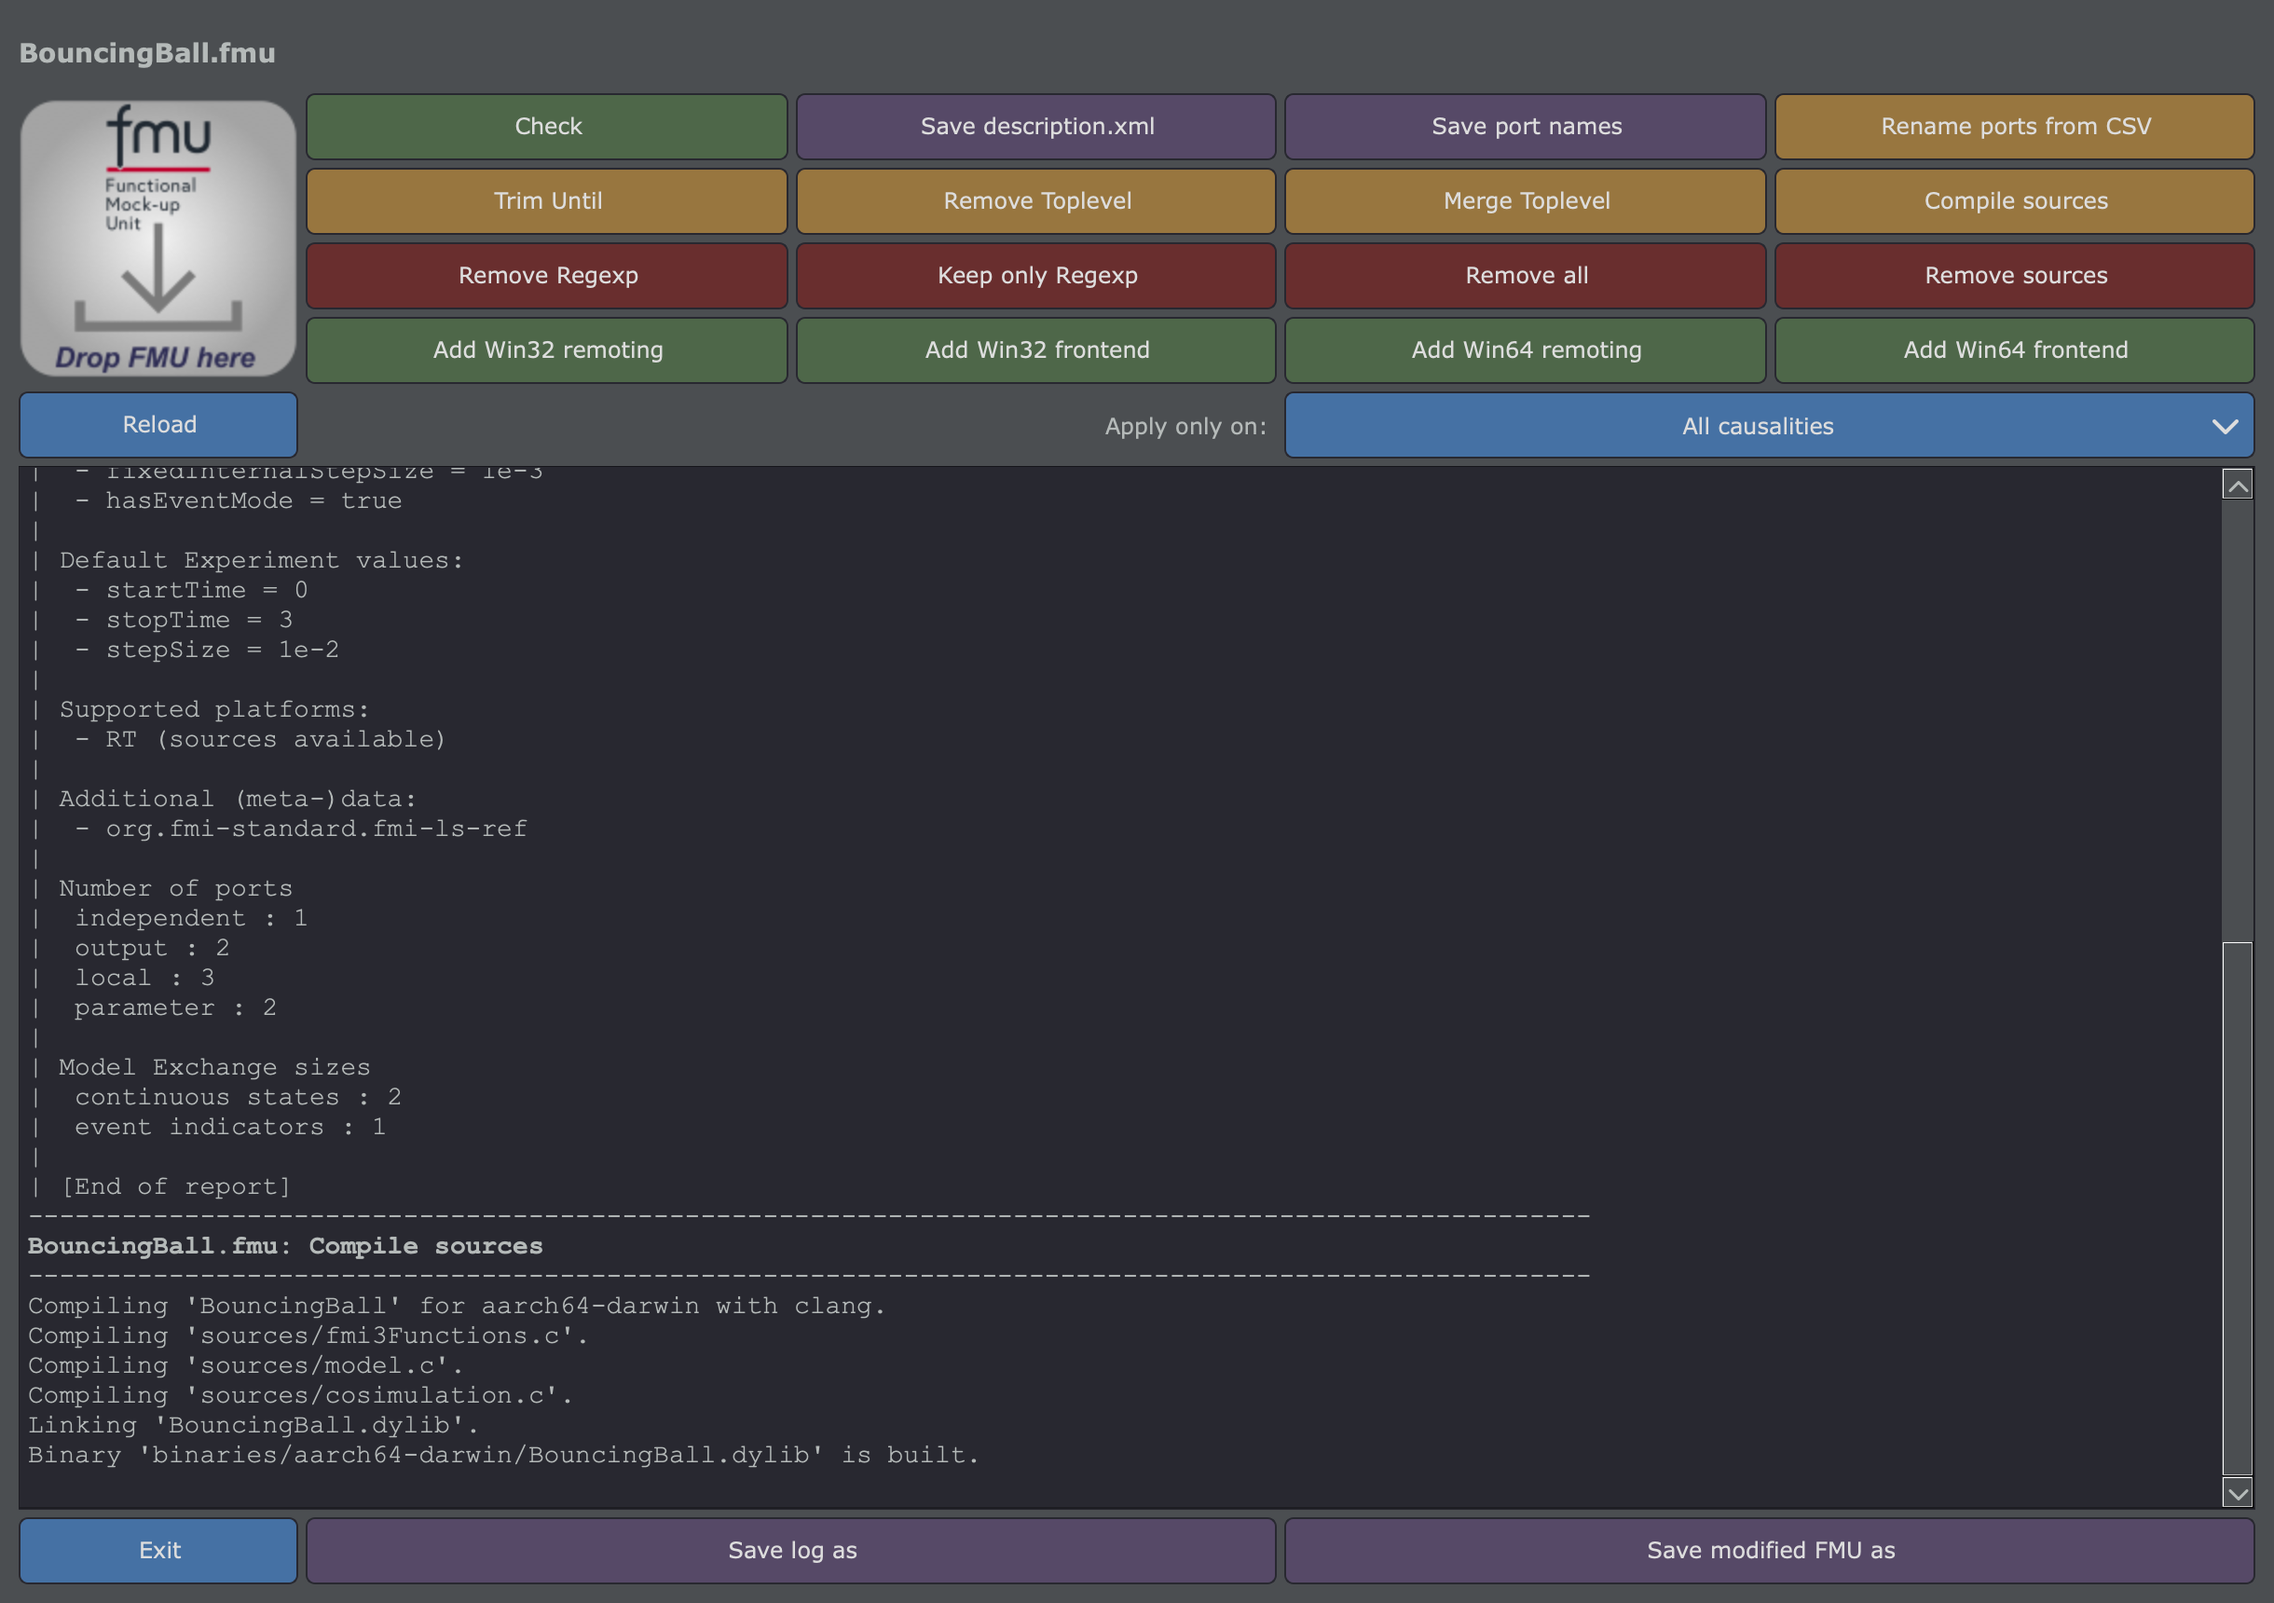
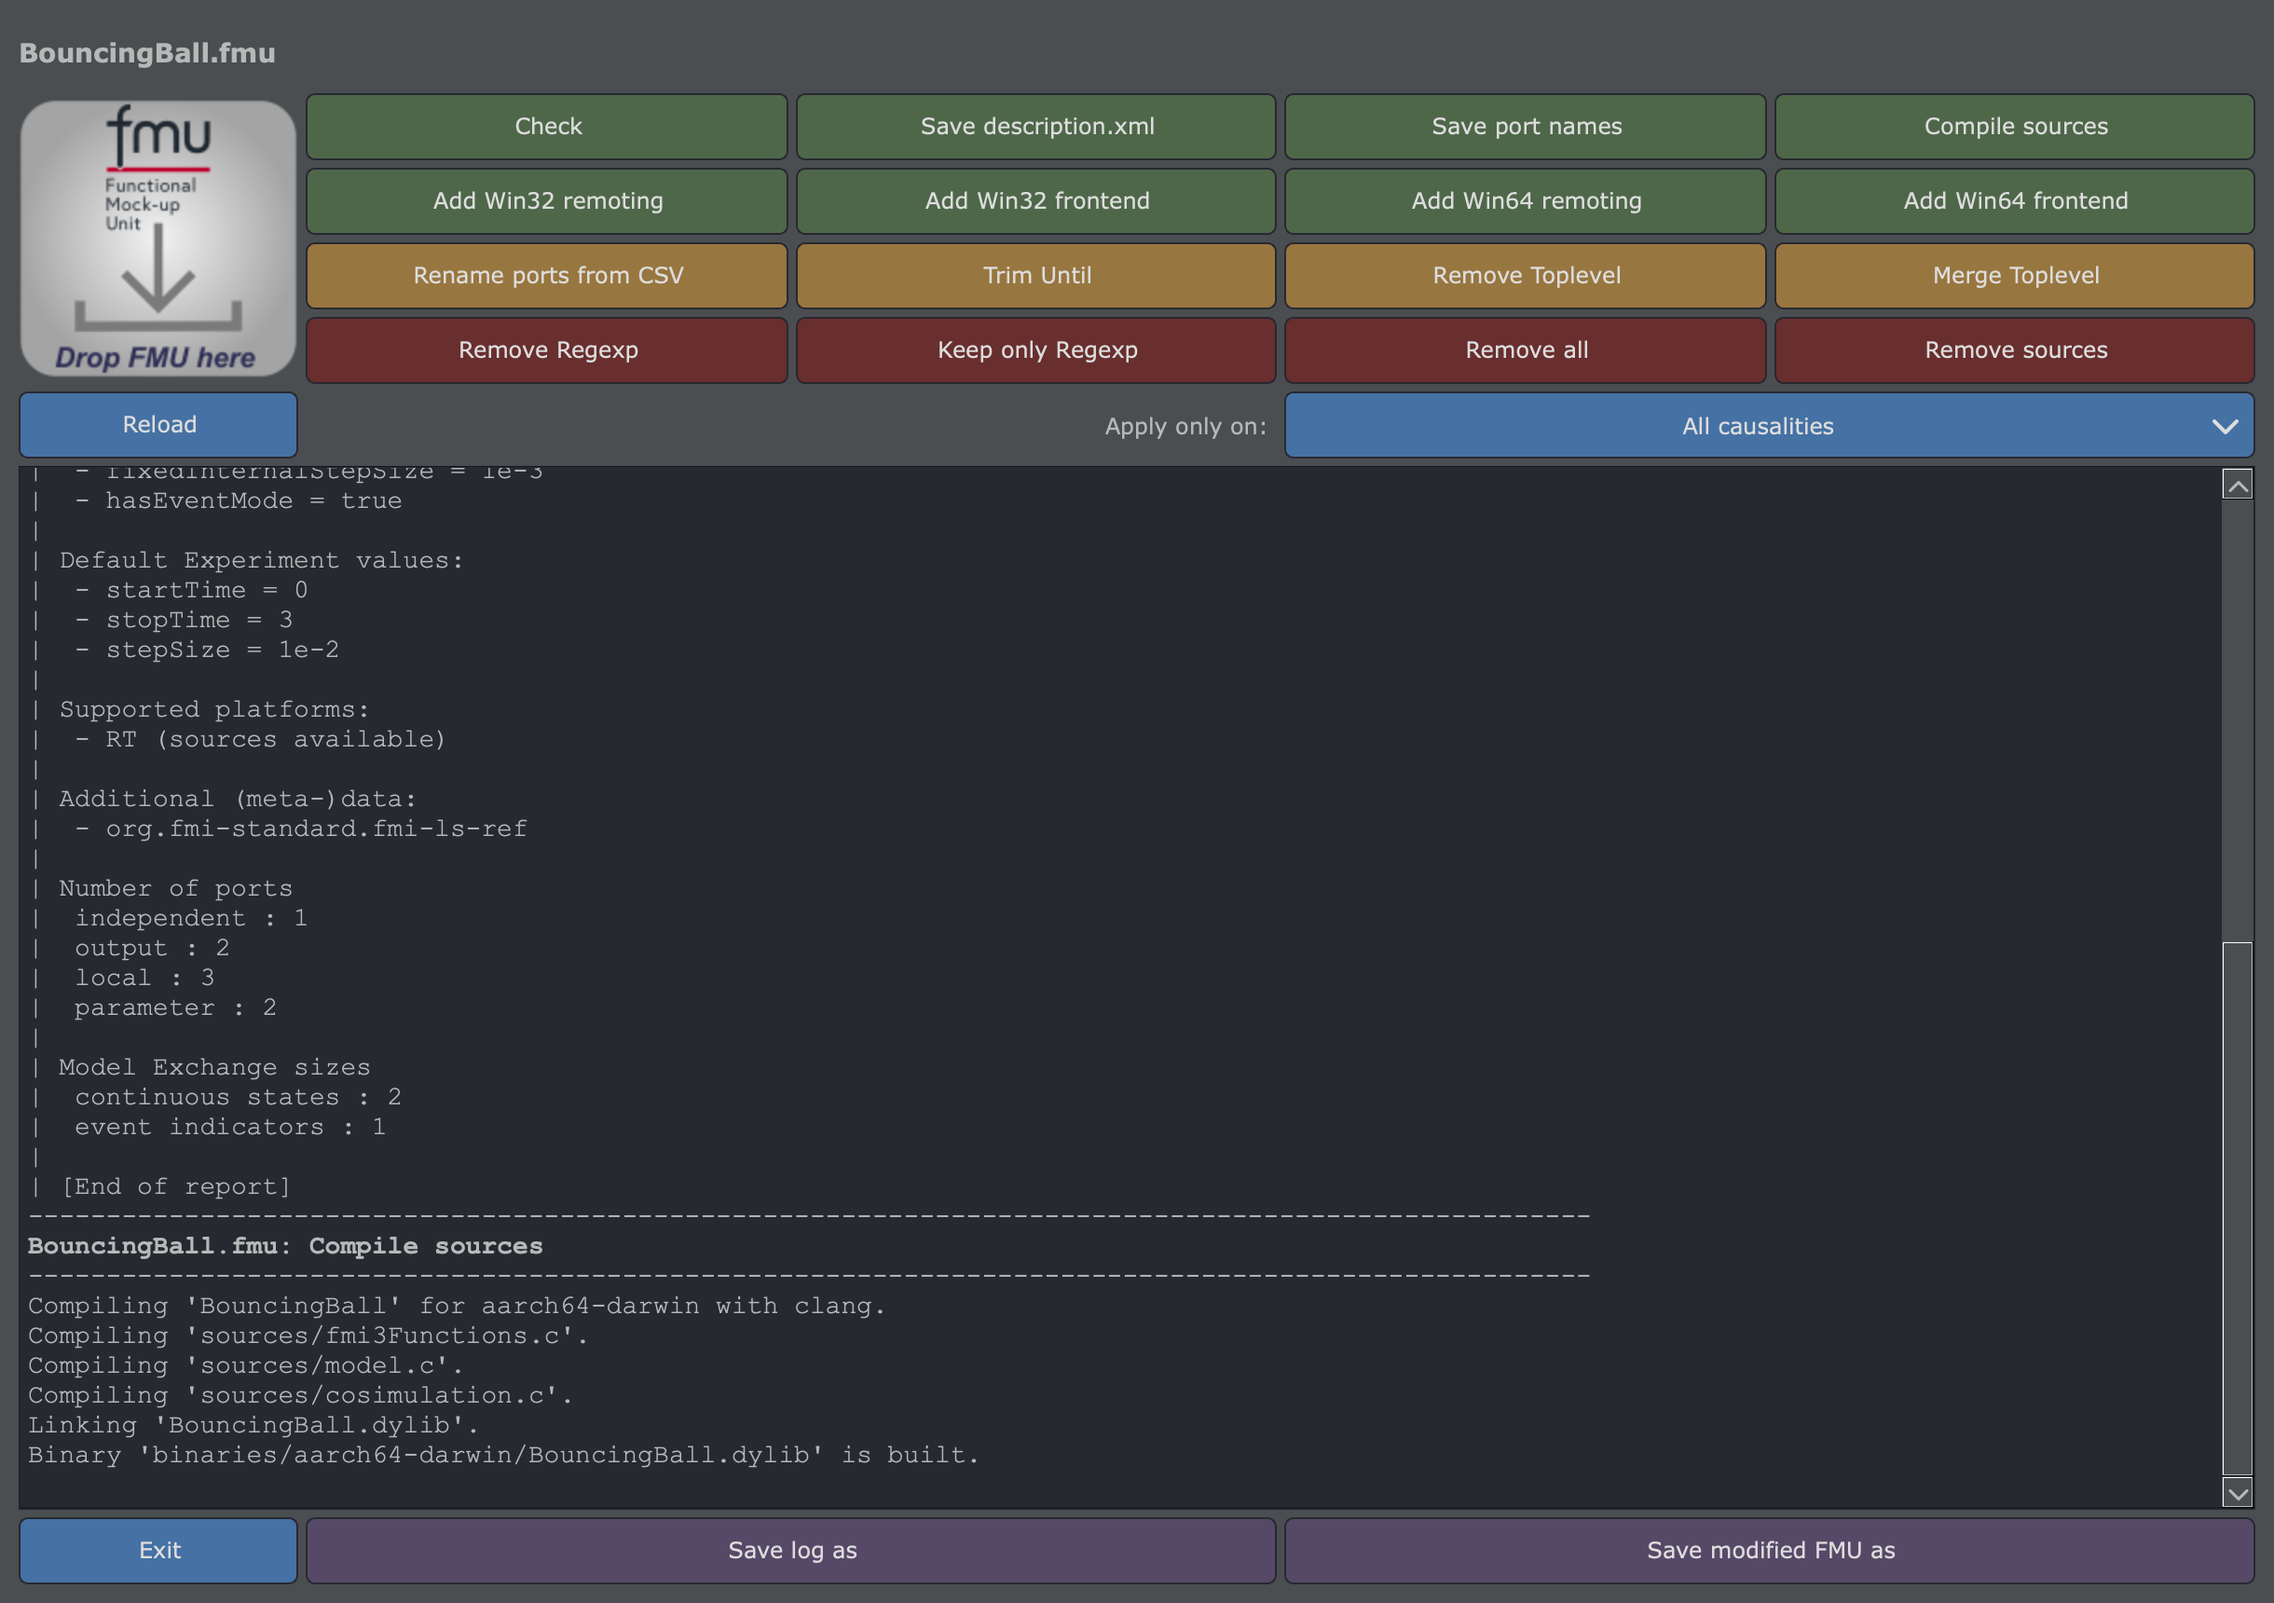
Change buttons colors

Changed region(s): [[0.1246, 0.0616, 0.9967, 0.2465]]

diff --git a/fmu_manipulation_toolbox/gui/fmutool/__main__.py b/fmu_manipulation_toolbox/gui/fmutool/__main__.py
@@ -86,25 +86,25 @@ Communicating with the FMU-developer and adapting the way the FMU is generated, 
 
         # Operations
         self.help = Help()
-        # Grid of WIDTH columns: analysis and saving, name changes, removals, remoting. "Compile sources" is above
-        # "Remove sources".
+        # Grid of WIDTH columns, one line per theme: analysis and export, binary interfaces (green), name changes
+        # (orange), removals (red).
         operations_list = [
             ("Check",                 '-check',              'info',    get_checkers()),
-            ("Save description.xml",  '-extract-descriptor', 'save',    None, {"func": self.save_descriptor}),
-            ("Save port names",    '-dump-csv',           'save',    OperationSaveNamesToCSV, {"prompt_file": "write"}),
-            ("Rename ports from CSV", '-rename-from-csv',   'modify',  OperationRenameFromCSV, {"prompt_file": "read"}),
-            ("Trim Until",            '-trim-until',         'modify',  OperationTrimUntil, {"prompt": "Prefix"}),
-            ("Remove Toplevel",       '-remove-toplevel',    'modify',  OperationStripTopLevel),
-            ("Merge Toplevel",        '-merge-toplevel',     'modify',  OperationMergeTopLevel),
-            ("Compile sources",       '-compile-sources',    'modify',  OperationCompileSources),
-            ("Remove Regexp",         '-remove-regexp',      'removal', OperationRemoveRegexp, {"prompt": "regexp"}),
-            ("Keep only Regexp",      '-keep-only-regexp',   'removal', OperationKeepOnlyRegexp, {"prompt": "regexp"}),
-            ("Remove all",            '-remove-all',         'removal', OperationRemoveRegexp, {"arg": ".*"}),
-            ("Remove sources",        '-remove-sources',     'removal', OperationRemoveSources),
+            ("Save description.xml",  '-extract-descriptor', 'info',    None, {"func": self.save_descriptor}),
+            ("Save port names",       '-dump-csv',           'info',    OperationSaveNamesToCSV, {"prompt_file": "write"}),
+            ("Compile sources",       '-compile-sources',    'info',    OperationCompileSources),
             ("Add Win32 remoting",    '-add-remoting-win32', 'info',    OperationAddRemotingWin32),
             ("Add Win32 frontend",    '-add-frontend-win32', 'info',    OperationAddFrontendWin32),
             ("Add Win64 remoting",    '-add-remoting-win64', 'info',    OperationAddRemotingWin64),
             ("Add Win64 frontend",    '-add-frontend-win64', 'info',    OperationAddFrontendWin64),
+            ("Rename ports from CSV", '-rename-from-csv',    'modify',  OperationRenameFromCSV, {"prompt_file": "read"}),
+            ("Trim Until",            '-trim-until',         'modify',  OperationTrimUntil, {"prompt": "Prefix"}),
+            ("Remove Toplevel",       '-remove-toplevel',    'modify',  OperationStripTopLevel),
+            ("Merge Toplevel",        '-merge-toplevel',     'modify',  OperationMergeTopLevel),
+            ("Remove Regexp",         '-remove-regexp',      'removal', OperationRemoveRegexp, {"prompt": "regexp"}),
+            ("Keep only Regexp",      '-keep-only-regexp',   'removal', OperationKeepOnlyRegexp, {"prompt": "regexp"}),
+            ("Remove all",            '-remove-all',         'removal', OperationRemoveRegexp, {"arg": ".*"}),
+            ("Remove sources",        '-remove-sources',     'removal', OperationRemoveSources),
         ]
 
         line = 1

diff --git a/docs/user-guide/fmutool/gui-usage.md b/docs/user-guide/fmutool/gui-usage.md
@@ -29,10 +29,10 @@ The window is organized as a single grid:
 
 | | | | |
 |---|---|---|---|
-| Check | Save description.xml | Save port names | Rename ports from CSV |
-| Trim Until | Remove Toplevel | Merge Toplevel | Compile sources |
-| Remove Regexp | Keep only Regexp | Remove all | Remove sources |
+| Check | Save description.xml | Save port names | Compile sources |
 | Add Win32 remoting | Add Win32 frontend | Add Win64 remoting | Add Win64 frontend |
+| Rename ports from CSV | Trim Until | Remove Toplevel | Merge Toplevel |
+| Remove Regexp | Keep only Regexp | Remove all | Remove sources |
 
 - Clicking a button immediately applies the corresponding operation to the loaded FMU (some
   buttons prompt for a value or a file first).
@@ -62,9 +62,9 @@ The interface uses an intuitive color code (matching the operation's effect):
 | Color | Action Type | Examples |
 |-------|-------------|----------|
 | 🔴 **Red** | Remove information | Remove Regexp, Keep only Regexp, Remove all, Remove sources |
-| 🟠 **Orange** | Modify the FMU | Rename ports from CSV, Remove Toplevel, Merge Toplevel, Trim Until, Compile sources |
-| 🟢 **Green** | Add components or check | Add Win32/Win64 remoting, Add Win32/Win64 frontend, Check |
-| 🟣 **Purple** | Extract and save | Save port names, Save description.xml, Save log as, Save modified FMU as |
+| 🟠 **Orange** | Modify `modelDescription.xml` | Rename ports from CSV, Trim Until, Remove Toplevel, Merge Toplevel |
+| 🟢 **Green** | Check, export, or add components | Check, Save description.xml, Save port names, Compile sources, Add Win32/Win64 remoting, Add Win32/Win64 frontend |
+| 🟣 **Purple** | Save the results | Save log as, Save modified FMU as |
 | 🔵 **Blue** | Filter scope or exit | Apply only on, Reload, Exit |
 
 ## Typical Workflow
@@ -87,7 +87,7 @@ to review everything that has been applied so far.
 
 ### Step 3: Apply Transformations
 
-#### 🟣 Save Port Names to CSV
+#### 🟢 Save Port Names to CSV
 
 **Use Case:** Prepare a file for renaming ports
 
@@ -139,7 +139,7 @@ Controller.Gain
    (e.g. keep only `parameter` checked)
 2. Click **Remove all** (removes every remaining port matching the filter)
 
-#### 🟠 Compile Sources
+#### 🟢 Compile Sources
 
 **Use Case:** The FMU embeds its C sources (`sources/` folder) but has no binary for your platform (e.g. a
 Windows-only FMU used on Linux or macOS)

diff --git a/CHANGELOG.md b/CHANGELOG.md
@@ -202,9 +202,10 @@ API, 🟠 **FIXED** bug fix; 🔴 **BREAKING** marks what may require changes in
 
 ## Graphical User Interfaces
 
-- 🔵 **CHANGED** `fmutool-gui`: the operation buttons are laid out in a 4 × 4 grid, one line per kind of
-  operation, with the new **Compile sources** button above **Remove sources**; the **?** help icon is removed (the
-  documentation is reachable from `fmutoolbox`).
+- 🔵 **CHANGED** `fmutool-gui`: the operation buttons are laid out in a 4 × 4 grid, one line per theme: analysis
+  and export, binary interfaces (green), name changes (orange), removals (red). **Save port names**, **Save
+  description.xml** and the new **Compile sources** are green; purple is kept for **Save log as** and **Save
+  modified FMU as**. The **?** help icon is removed (the documentation is reachable from `fmutoolbox`).
 - 🟢 **ADDED** `fmucontainer-gui` and `fmueditor`: the status bar shows the last log message (Info level and above)
   in the colour of its level; a click opens a log window with every message since the launch, a level filter, a
   search, **Save Logs…** and **Clear**. In `fmucontainer-gui`, the messages that were lost outside the progress
